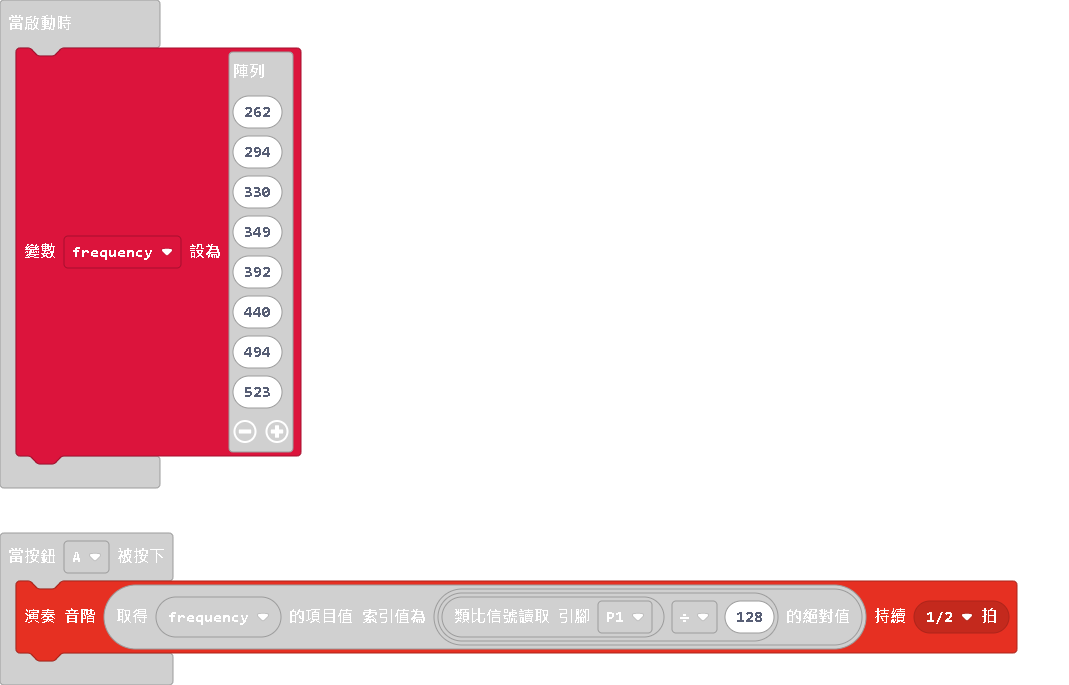
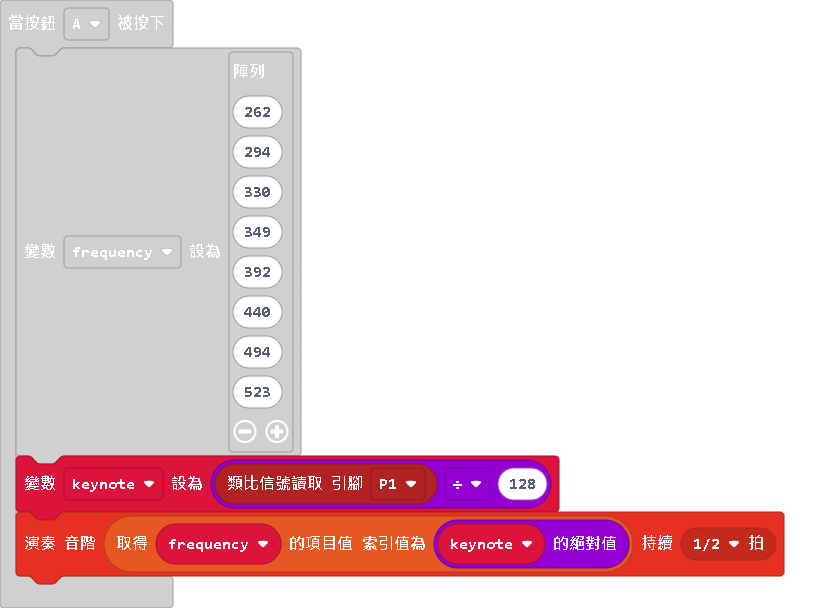
更新 main.blocks, main.ts

diff --git a/main.ts b/main.ts
@@ -1,17 +1,19 @@
-input.onButtonPressed(Button.A, function () {
-    music.playTone(frequency[Math.abs(pins.analogReadPin(AnalogPin.P1) / 128)], music.beat(BeatFraction.Half))
-})
 let frequency: number[] = []
-frequency = [
-262,
-294,
-330,
-349,
-392,
-440,
-494,
-523
-]
+let keynote = 0
+input.onButtonPressed(Button.A, function () {
+    frequency = [
+    262,
+    294,
+    330,
+    349,
+    392,
+    440,
+    494,
+    523
+    ]
+    keynote = pins.analogReadPin(AnalogPin.P1) / 128
+    music.playTone(frequency[Math.abs(keynote)], music.beat(BeatFraction.Half))
+})
 basic.forever(function () {
 	
 })
